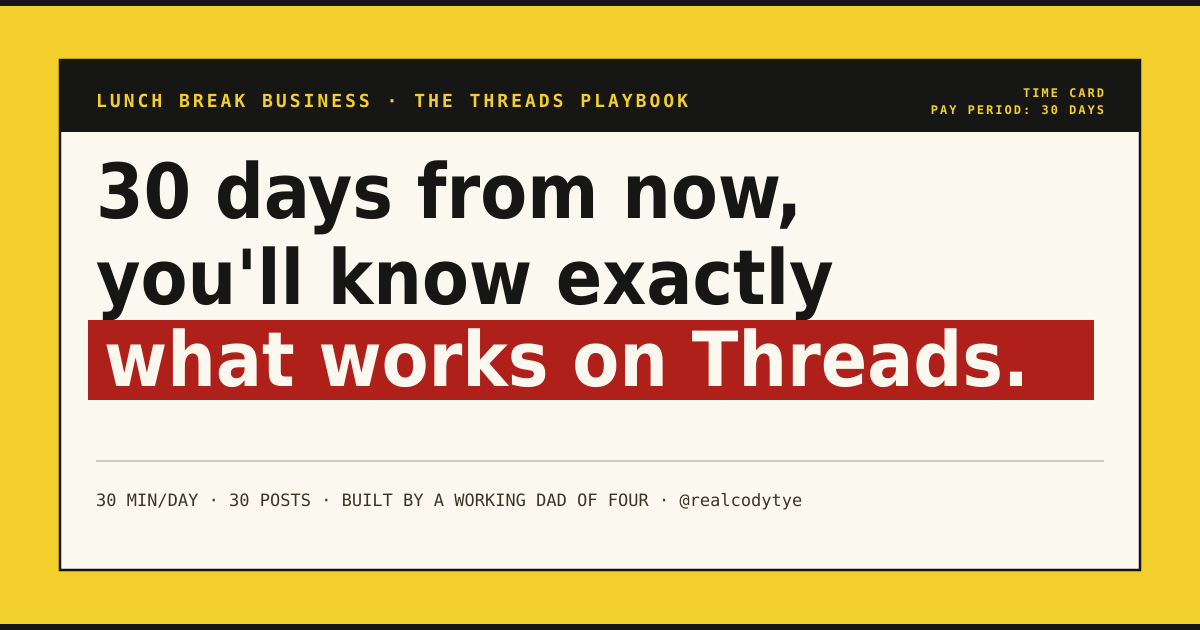
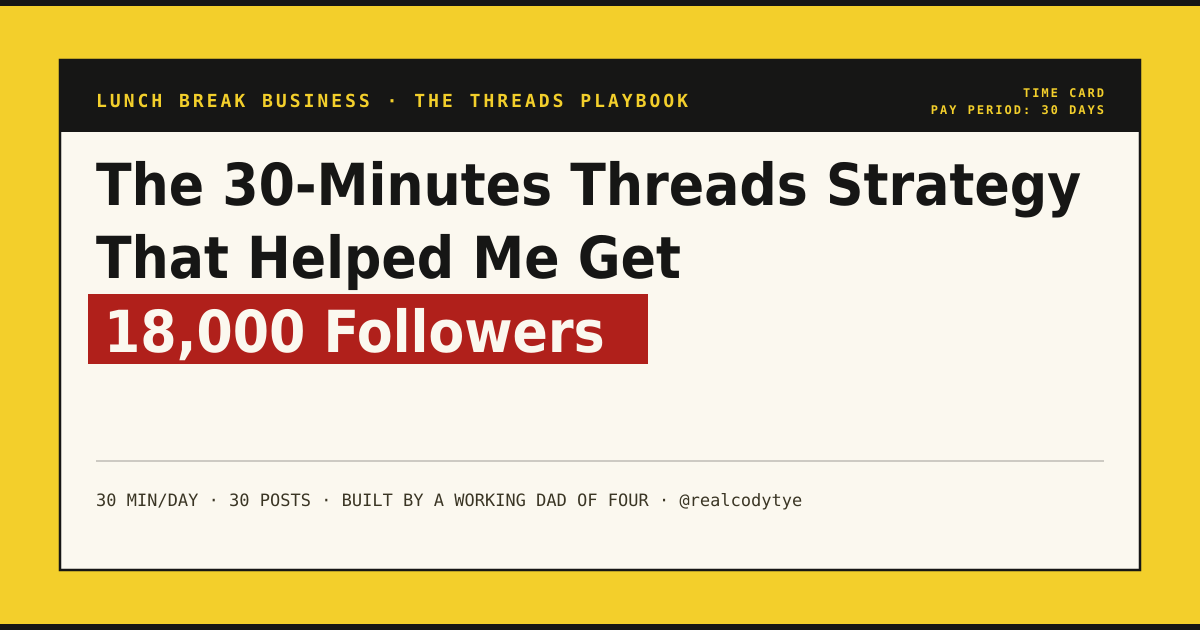
Update Threads Playbook headline and OG image to 18,000 followers hook
Changes headline from "30 days from now..." outcome framing to social proof
framing: "The 30-Minutes Threads Strategy That Helped Me Get 18,000 Followers".
OG image re-rendered to match. Cache busted to ?v=2.

Changed region(s): [[0.0617, 0.2413, 0.925, 0.6333]]

diff --git a/threads-playbook/index.html b/threads-playbook/index.html
@@ -3,23 +3,23 @@
 <head>
 <meta charset="utf-8" />
 <meta name="viewport" content="width=device-width, initial-scale=1" />
-<title>The Threads Playbook — 30 Days From Now, You'll Know Exactly What Works on Threads</title>
+<title>The 30-Minutes Threads Strategy That Helped Me Get 18,000 Followers</title>
 <meta name="description" content="A full-time working dad of four built an 18,000+ follower account in 30 minutes a day — not by guessing, but by running a system and reading the data. This is that system.">
 <!-- Open Graph -->
 <meta property="og:type" content="product">
 <meta property="og:site_name" content="Lunch Break Business">
 <meta property="og:url" content="https://realcodytye.com/threads-playbook/">
-<meta property="og:title" content="The Threads Playbook — 30 Days From Now, You'll Know Exactly What Works on Threads">
+<meta property="og:title" content="The 30-Minutes Threads Strategy That Helped Me Get 18,000 Followers">
 <meta property="og:description" content="A full-time working dad of four built an 18,000+ follower account in 30 minutes a day — not by guessing, but by running a system and reading the data. This is that system.">
-<meta property="og:image" content="https://realcodytye.com/og-image-threads-playbook-v2.png?v=1">
+<meta property="og:image" content="https://realcodytye.com/og-image-threads-playbook-v2.png?v=2">
 <meta property="og:image:width" content="1200">
 <meta property="og:image:height" content="630">
 <!-- Twitter Card -->
 <meta name="twitter:card" content="summary_large_image">
 <meta name="twitter:site" content="@realcodytye">
-<meta name="twitter:title" content="The Threads Playbook — 30 Days From Now, You'll Know Exactly What Works on Threads">
+<meta name="twitter:title" content="The 30-Minutes Threads Strategy That Helped Me Get 18,000 Followers">
 <meta name="twitter:description" content="A full-time working dad of four built an 18,000+ follower account in 30 minutes a day — not by guessing, but by running a system and reading the data. This is that system.">
-<meta name="twitter:image" content="https://realcodytye.com/og-image-threads-playbook-v2.png?v=1">
+<meta name="twitter:image" content="https://realcodytye.com/og-image-threads-playbook-v2.png?v=2">
 <link rel="canonical" href="https://realcodytye.com/threads-playbook/">
 <link rel="stylesheet" href="../style.css">
 </head>
@@ -33,7 +33,7 @@
 <div class="wrap hero-grid">
   <div>
     <div class="eyebrow">Lunch Break Business: The Threads Playbook</div>
-    <h1 class="h1">30 days from now, you'll know <span class="swipe">exactly what works on Threads.</span></h1>
+    <h1 class="h1">The 30-Minutes Threads Strategy That Helped Me Get <span class="swipe">18,000 Followers</span></h1>
     <p class="lede">A full-time working dad of four built an 18,000+ follower account in 30 minutes a day — not by guessing, but by running a system and reading the data. This is that system.</p>
     <div class="buy btn-row">
       <a class="btn btn-primary" href="https://followrs.store/realcodytye/the-30-minute-visibility-system?track=ZQqieuP0" target="_blank" rel="noopener">Get the Playbook for $27
